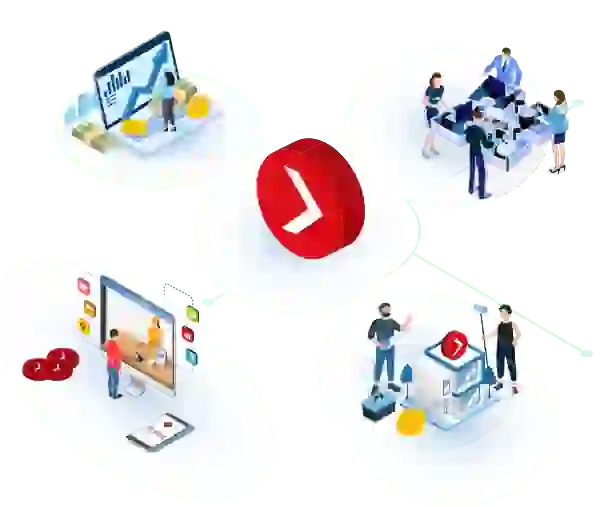
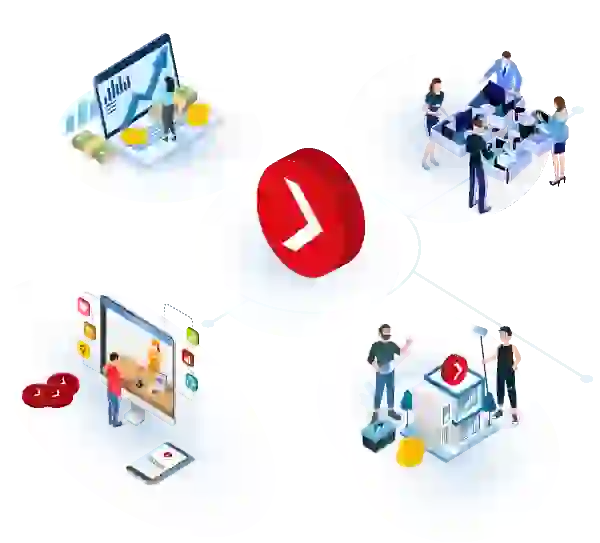
! Extract image with blurred placeholder as separate component

diff --git a/src/containers/Home/HomeValues/index.tsx b/src/containers/Home/HomeValues/index.tsx
@@ -1,17 +1,15 @@
-import React, {FC, useState} from 'react';
+import React, {FC} from 'react';
 import {Link} from 'react-router-dom';
-import clsx from 'clsx';
 
-import {Button} from 'components';
+import {Button, ImageWithBlurredPlaceholder} from 'components';
 import {useWindowDimensions} from 'hooks';
 import HomeValuesCard from './HomeValuesCard';
-import ValuesIllustrationWebP from './ValuesIllustration.webp';
-import ValuesIllustrationSvg from './ValuesIllustration.svg';
+import ValuesIllustrationPlaceholder from './ValuesIllustration.webp';
+import ValuesIllustration from './ValuesIllustration.svg';
 import './HomeValues.scss';
 
 const HomeValues: FC = () => {
   const {width} = useWindowDimensions();
-  const [isImageLoaded, setIsImageLoaded] = useState(false);
 
   let iconSize;
   if (width < 600) {
@@ -26,28 +24,16 @@ const HomeValues: FC = () => {
     <div className="HomeValues">
       <HomeValuesCard />
       <div className="HomeValues__main">
-        <div className="HomeValues__illustration-container" style={{height: iconSize.height, width: iconSize.width}}>
-          <img
-            alt="HomeValuesIllustration"
-            className={clsx('HomeValues__illustration HomeValues__illustration-placeholder', {
-              'HomeValues__illustration-placeholder--loaded': isImageLoaded,
-            })}
-            width={iconSize.width}
-            height={iconSize.height}
-            src={ValuesIllustrationWebP}
-          />
-          <img
-            alt="HomeValuesIllustration"
-            className={clsx('HomeValues__illustration HomeValues__illustration-real', {
-              'HomeValues__illustration-real--loaded': isImageLoaded,
-            })}
-            loading="lazy"
-            width={iconSize.width}
-            height={iconSize.height}
-            src={ValuesIllustrationSvg}
-            onLoad={() => setIsImageLoaded(true)}
-          />
-        </div>
+        <ImageWithBlurredPlaceholder
+          alt="Illustration about TNBC's Values"
+          containerClassName="HomeValues__illustration-container"
+          placeholderImageClassName="HomeValues__illustration"
+          realImageClassName="HomeValues__illustration"
+          height={iconSize.height}
+          placeholderSrc={ValuesIllustrationPlaceholder}
+          realSrc={ValuesIllustration}
+          width={iconSize.width}
+        />
         <div className="HomeValues__main-right">
           <div className="HomeValues__main-title">The value comes from you</div>
           <div className="HomeValues__main-description">

diff --git a/src/containers/Home/HomeHero/index.tsx b/src/containers/Home/HomeHero/index.tsx
@@ -1,16 +1,16 @@
-import React, {FC, useCallback, useEffect, useRef, useState} from 'react';
+import React, {FC, useCallback, useEffect, useRef} from 'react';
 import {Link} from 'react-router-dom';
 import clsx from 'clsx';
 
-import {Button} from 'components';
+import {Button, ImageWithBlurredPlaceholder} from 'components';
 import SocialMediaIcon from 'components/SocialMediaIcon';
 import {AnimationState} from 'constants/animation';
 import {useAnimationState, useShuffle, useWindowDimensions} from 'hooks';
 import {SocialMedia} from 'types/social-media';
 
 import HelloWorld, {defaultHelloWorld, HelloWorldKeys} from './hello-world';
-import HeroV2Svg from './HeroV2.svg';
-import HeroV2WebP from './HeroV2.webp';
+import HeroV2 from './HeroV2.svg';
+import HeroV2Placeholder from './HeroV2.webp';
 import './HomeHero.scss';
 
 const HelloFadeClass = {
@@ -22,7 +22,6 @@ const HomeHero: FC = () => {
   const animationState = useAnimationState(AnimationState.ONE, 1000, 4000);
   const shouldShuffle = useRef(false);
   const helloText = useShuffle(defaultHelloWorld, HelloWorld, HelloWorldKeys, shouldShuffle.current);
-  const [isHeroImageLoaded, setIsHeroImageLoaded] = useState(false);
   const {width} = useWindowDimensions();
 
   useEffect(() => {
@@ -66,26 +65,12 @@ const HomeHero: FC = () => {
           </div>
         </div>
         {width > 414 && (
-          <div className="HomeHero__right">
-            <img
-              alt="hero"
-              className={clsx('HomeHero__image HomeHero__image-placeholder', {
-                'HomeHero__image-placeholder--loaded': isHeroImageLoaded,
-              })}
-              src={HeroV2WebP}
-            />
-            <img
-              alt="hero"
-              className={clsx('HomeHero__image HomeHero__image-real', {
-                'HomeHero__image-real--loaded': isHeroImageLoaded,
-              })}
-              loading="lazy"
-              src={HeroV2Svg}
-              onLoad={() => {
-                setIsHeroImageLoaded(true);
-              }}
-            />
-          </div>
+          <ImageWithBlurredPlaceholder
+            alt="Home Hero Image"
+            containerClassName="HomeHero__right"
+            placeholderSrc={HeroV2Placeholder}
+            realSrc={HeroV2}
+          />
         )}
       </div>
     </div>

diff --git a/src/components/ImageWithBlurredPlaceholder/index.tsx b/src/components/ImageWithBlurredPlaceholder/index.tsx
@@ -1,0 +1,62 @@
+import React, {useState} from 'react';
+import clsx from 'clsx';
+
+import './ImageWithBlurredPlaceholder.scss';
+
+type Props = {
+  alt: string;
+  placeholderSrc: string; // src to a much smaller version of the real image
+  realSrc: string;
+  width?: number;
+  height?: number;
+  containerClassName?: string;
+  placeholderImageClassName?: string;
+  realImageClassName?: string;
+};
+
+const ImageWithBlurredPlaceholder = ({
+  alt,
+  containerClassName,
+  height,
+  placeholderImageClassName,
+  placeholderSrc,
+  realImageClassName,
+  realSrc,
+  width,
+}: Props) => {
+  const [isLoaded, setIsLoaded] = useState(false);
+  return (
+    <div className={clsx('ImageWithBlurredPlaceholder', containerClassName)} style={{height, width}}>
+      <img
+        alt={alt}
+        className={clsx(
+          'ImageWithBlurredPlaceholder-placeholder',
+          {
+            'ImageWithBlurredPlaceholder-placeholder--loaded': isLoaded,
+          },
+          placeholderImageClassName,
+        )}
+        src={placeholderSrc}
+        height={height}
+        width={width}
+      />
+      <img
+        alt={alt}
+        className={clsx(
+          'ImageWithBlurredPlaceholder-real',
+          {
+            'ImageWithBlurredPlaceholder-real--loaded': isLoaded,
+          },
+          realImageClassName,
+        )}
+        src={realSrc}
+        loading="lazy"
+        height={height}
+        width={width}
+        onLoad={() => setIsLoaded(true)}
+      />
+    </div>
+  );
+};
+
+export default ImageWithBlurredPlaceholder;

diff --git a/src/containers/Projects/ProjectsHero/index.tsx b/src/containers/Projects/ProjectsHero/index.tsx
@@ -1,8 +1,9 @@
 import React, {FC} from 'react';
 import {useHistory} from 'react-router-dom';
 
-import {Button} from 'components';
-import ProjectsHeroImage from './ProjectsHeroImage';
+import {Button, ImageWithBlurredPlaceholder} from 'components';
+import ProjectsHeroImage from './ProjectsHeroImage.svg';
+import ProjectsHeroImagePlaceholder from './ProjectsHeroImage.webp';
 import './ProjectsHero.scss';
 
 const ProjectsHero: FC = () => {
@@ -36,9 +37,14 @@ const ProjectsHero: FC = () => {
             </div>
           </div>
         </div>
-        <div className="ProjectsHero__right">
-          <ProjectsHeroImage />
-        </div>
+        <ImageWithBlurredPlaceholder
+          alt="Projects Hero Image"
+          containerClassName="ProjectsHero__right"
+          placeholderSrc={ProjectsHeroImagePlaceholder}
+          realSrc={ProjectsHeroImage}
+          width={564}
+          height={372}
+        />
       </div>
     </div>
   );

diff --git a/src/components/ImageWithBlurredPlaceholder/ImageWithBlurredPlaceholder.scss b/src/components/ImageWithBlurredPlaceholder/ImageWithBlurredPlaceholder.scss
@@ -1,0 +1,33 @@
+.ImageWithBlurredPlaceholder {
+  position: relative;
+
+  %centered-position {
+    left: 50%;
+    position: absolute;
+    top: 50%;
+    transform: translate(-50%, -50%);
+  }
+
+  &-placeholder {
+    @extend %centered-position;
+    filter: blur(20px);
+    height: 100%;
+    width: 100%;
+
+    &--loaded {
+      opacity: 0;
+    }
+  }
+
+  &-real {
+    @extend %centered-position;
+    filter: blur(20px);
+    height: 100%;
+    transition: filter 0.75s linear;
+    width: 100%;
+
+    &--loaded {
+      filter: blur(0px);
+    }
+  }
+}

diff --git a/src/containers/Home/HomeValues/HomeValues.scss b/src/containers/Home/HomeValues/HomeValues.scss
@@ -31,29 +31,7 @@
   &__illustration {
     left: 50%;
     max-width: 538px;
-    min-width: 325px;
     min-width: 200px;
-    position: absolute;
-    top: 50%;
-    transform: translate(-50%, -50%);
-
-    &-placeholder {
-      filter: blur(25px);
-      opacity: 1;
-
-      &--loaded {
-        opacity: 0;
-      }
-    }
-
-    &-real {
-      filter: blur(25px);
-      transition: filter 1s linear;
-
-      &--loaded {
-        filter: blur(0px);
-      }
-    }
   }
 
   &__main-right {

diff --git a/src/components/index.ts b/src/components/index.ts
@@ -26,6 +26,7 @@ import Footer from './Footer';
 import {Button, ErrorMessage, Input} from './FormElements';
 import GoToTop from './GoToTop';
 import HashLink from './HashLink';
+import ImageWithBlurredPlaceholder from './ImageWithBlurredPlaceholder';
 import Label from './Label';
 import Layout from './Layout';
 import MarketingButton from './MarketingButton';
@@ -77,6 +78,7 @@ export {
   Footer,
   GoToTop,
   HashLink,
+  ImageWithBlurredPlaceholder,
   Input,
   Label,
   LabelFilter,
